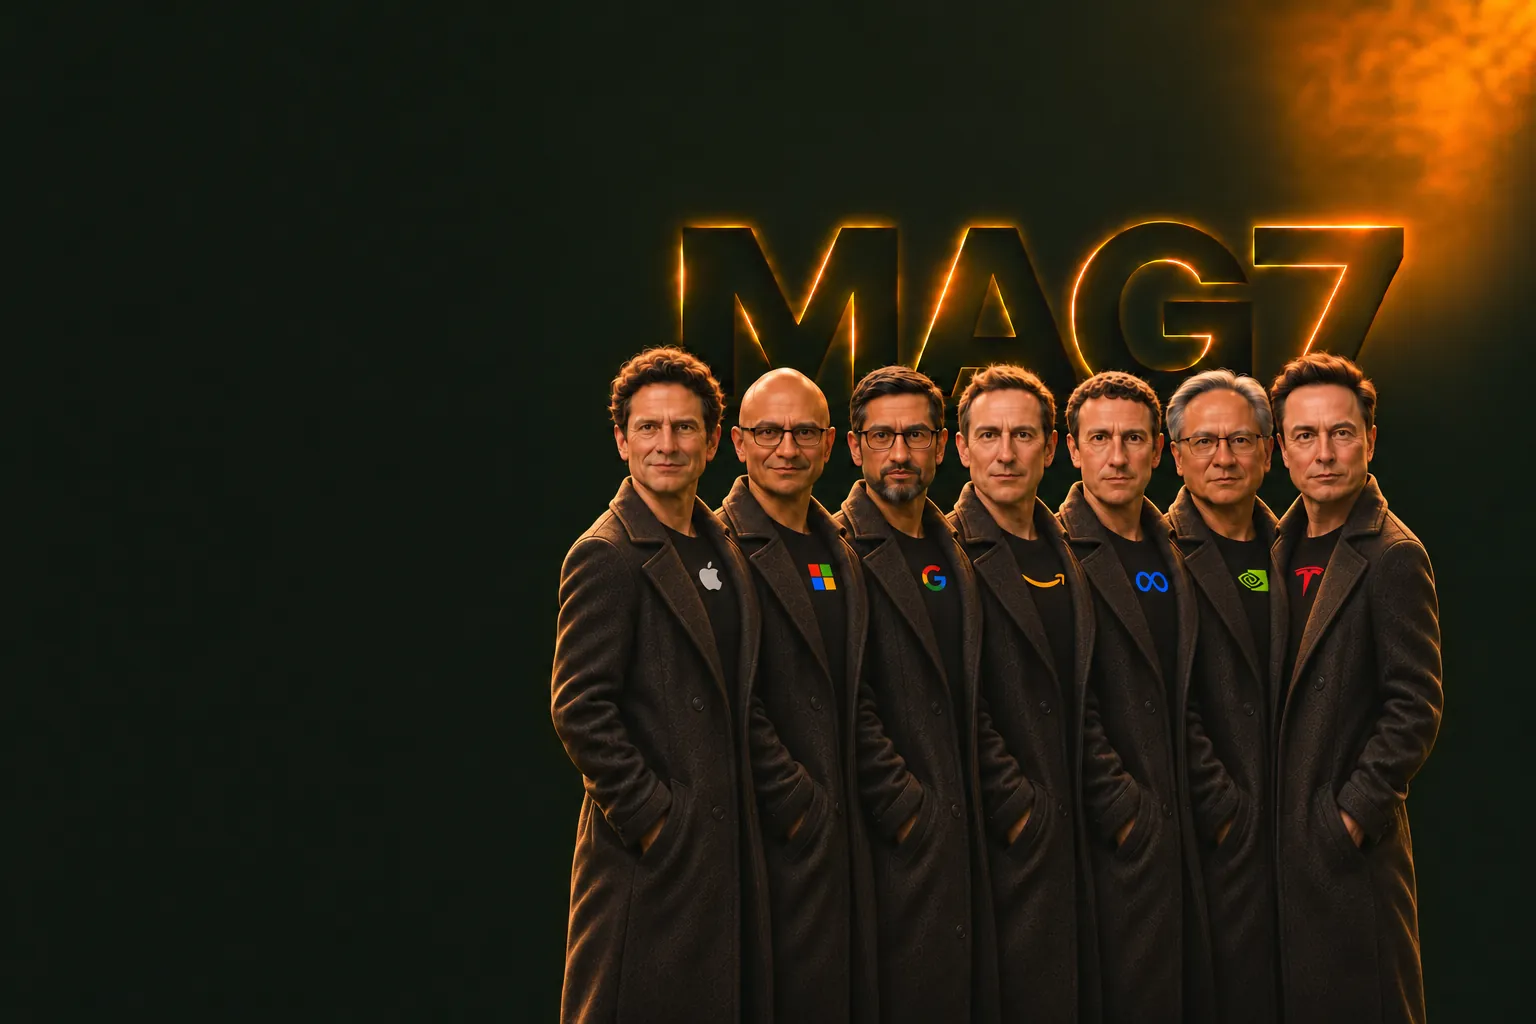
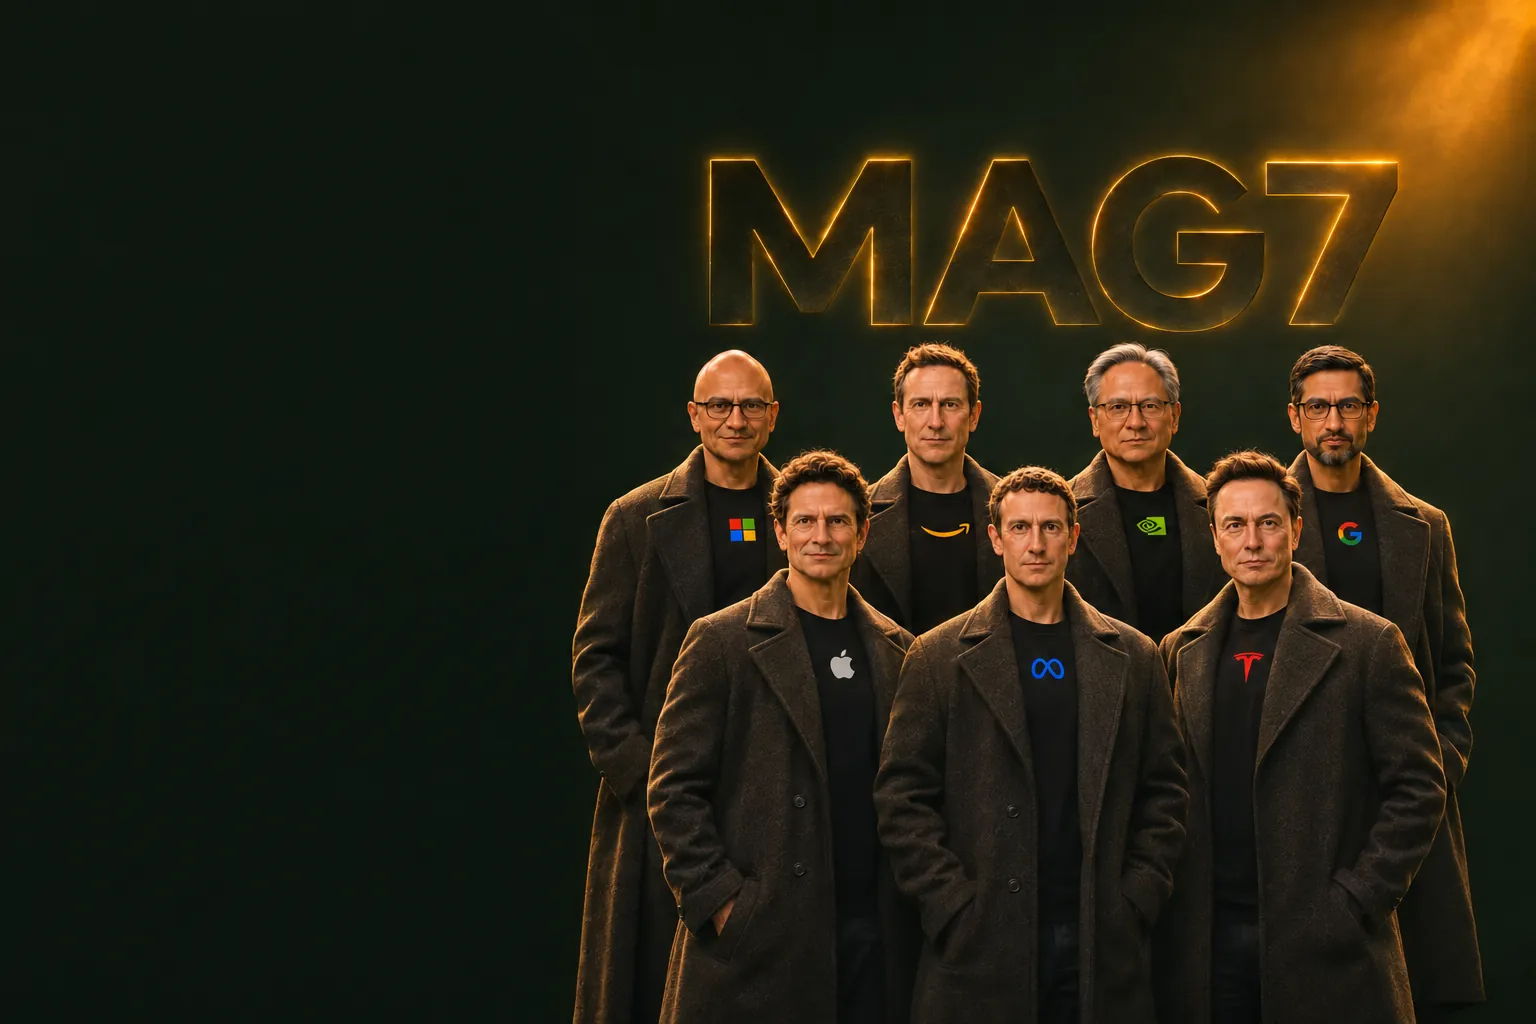
Mag7 封面換成 v8 A 版：前排三人、後排四人，身形比例正常 (#121)
上一版把七個人塞在右半邊一排又維持頭的大小，身體被壓得太窄（使用者回報）。
A 版：前排 Apple／Meta／Tesla、後排 Microsoft／Amazon／NVIDIA／Google，肩寬正常、全員看鏡頭。縮圖以人群為中心裁正方形。

Changed region(s): [[0.3438, 0.0, 1.0, 1.0], [0.7812, 0.8125, 0.8125, 0.8438], [0.7812, 0.75, 0.8125, 0.7812]]

diff --git a/tests/photo-covers.test.ts b/tests/photo-covers.test.ts
@@ -36,3 +36,17 @@ test("photo covers have no gradient and keep the title and buttons on the dark l
   const overview = fs.readFileSync("src/features/reference/FundOverview.tsx", "utf8");
   expect(overview).toContain('meta?.cover.art === "photo" ? " is-photo"');
 });
+
+test("Mag7 cover is the full 1536x1024 group shot with a square 256 thumbnail (v8 A, natural proportions)", () => {
+  // 使用者 2026-11-19 選 A 版（前排三人、後排四人，肩寬正常）；圖要維持原尺寸，封面裁切才對得上。
+  const size = (file: string) => {
+    const b = fs.readFileSync(path.join("public/fund-covers/photo", file));
+    expect(b.toString("ascii", 0, 4)).toBe("RIFF");
+    const chunk = b.toString("ascii", 12, 16);
+    if (chunk === "VP8 ") return [b.readUInt16LE(26) & 0x3fff, b.readUInt16LE(28) & 0x3fff];
+    if (chunk === "VP8L") { const v = b.readUInt32LE(21); return [(v & 0x3fff) + 1, ((v >> 14) & 0x3fff) + 1]; }
+    return [b.readUIntLE(24, 3) + 1, b.readUIntLE(27, 3) + 1];
+  };
+  expect(size("mag7.webp")).toEqual([1536, 1024]);
+  expect(size("mag7-thumb.webp")).toEqual([256, 256]);
+});
